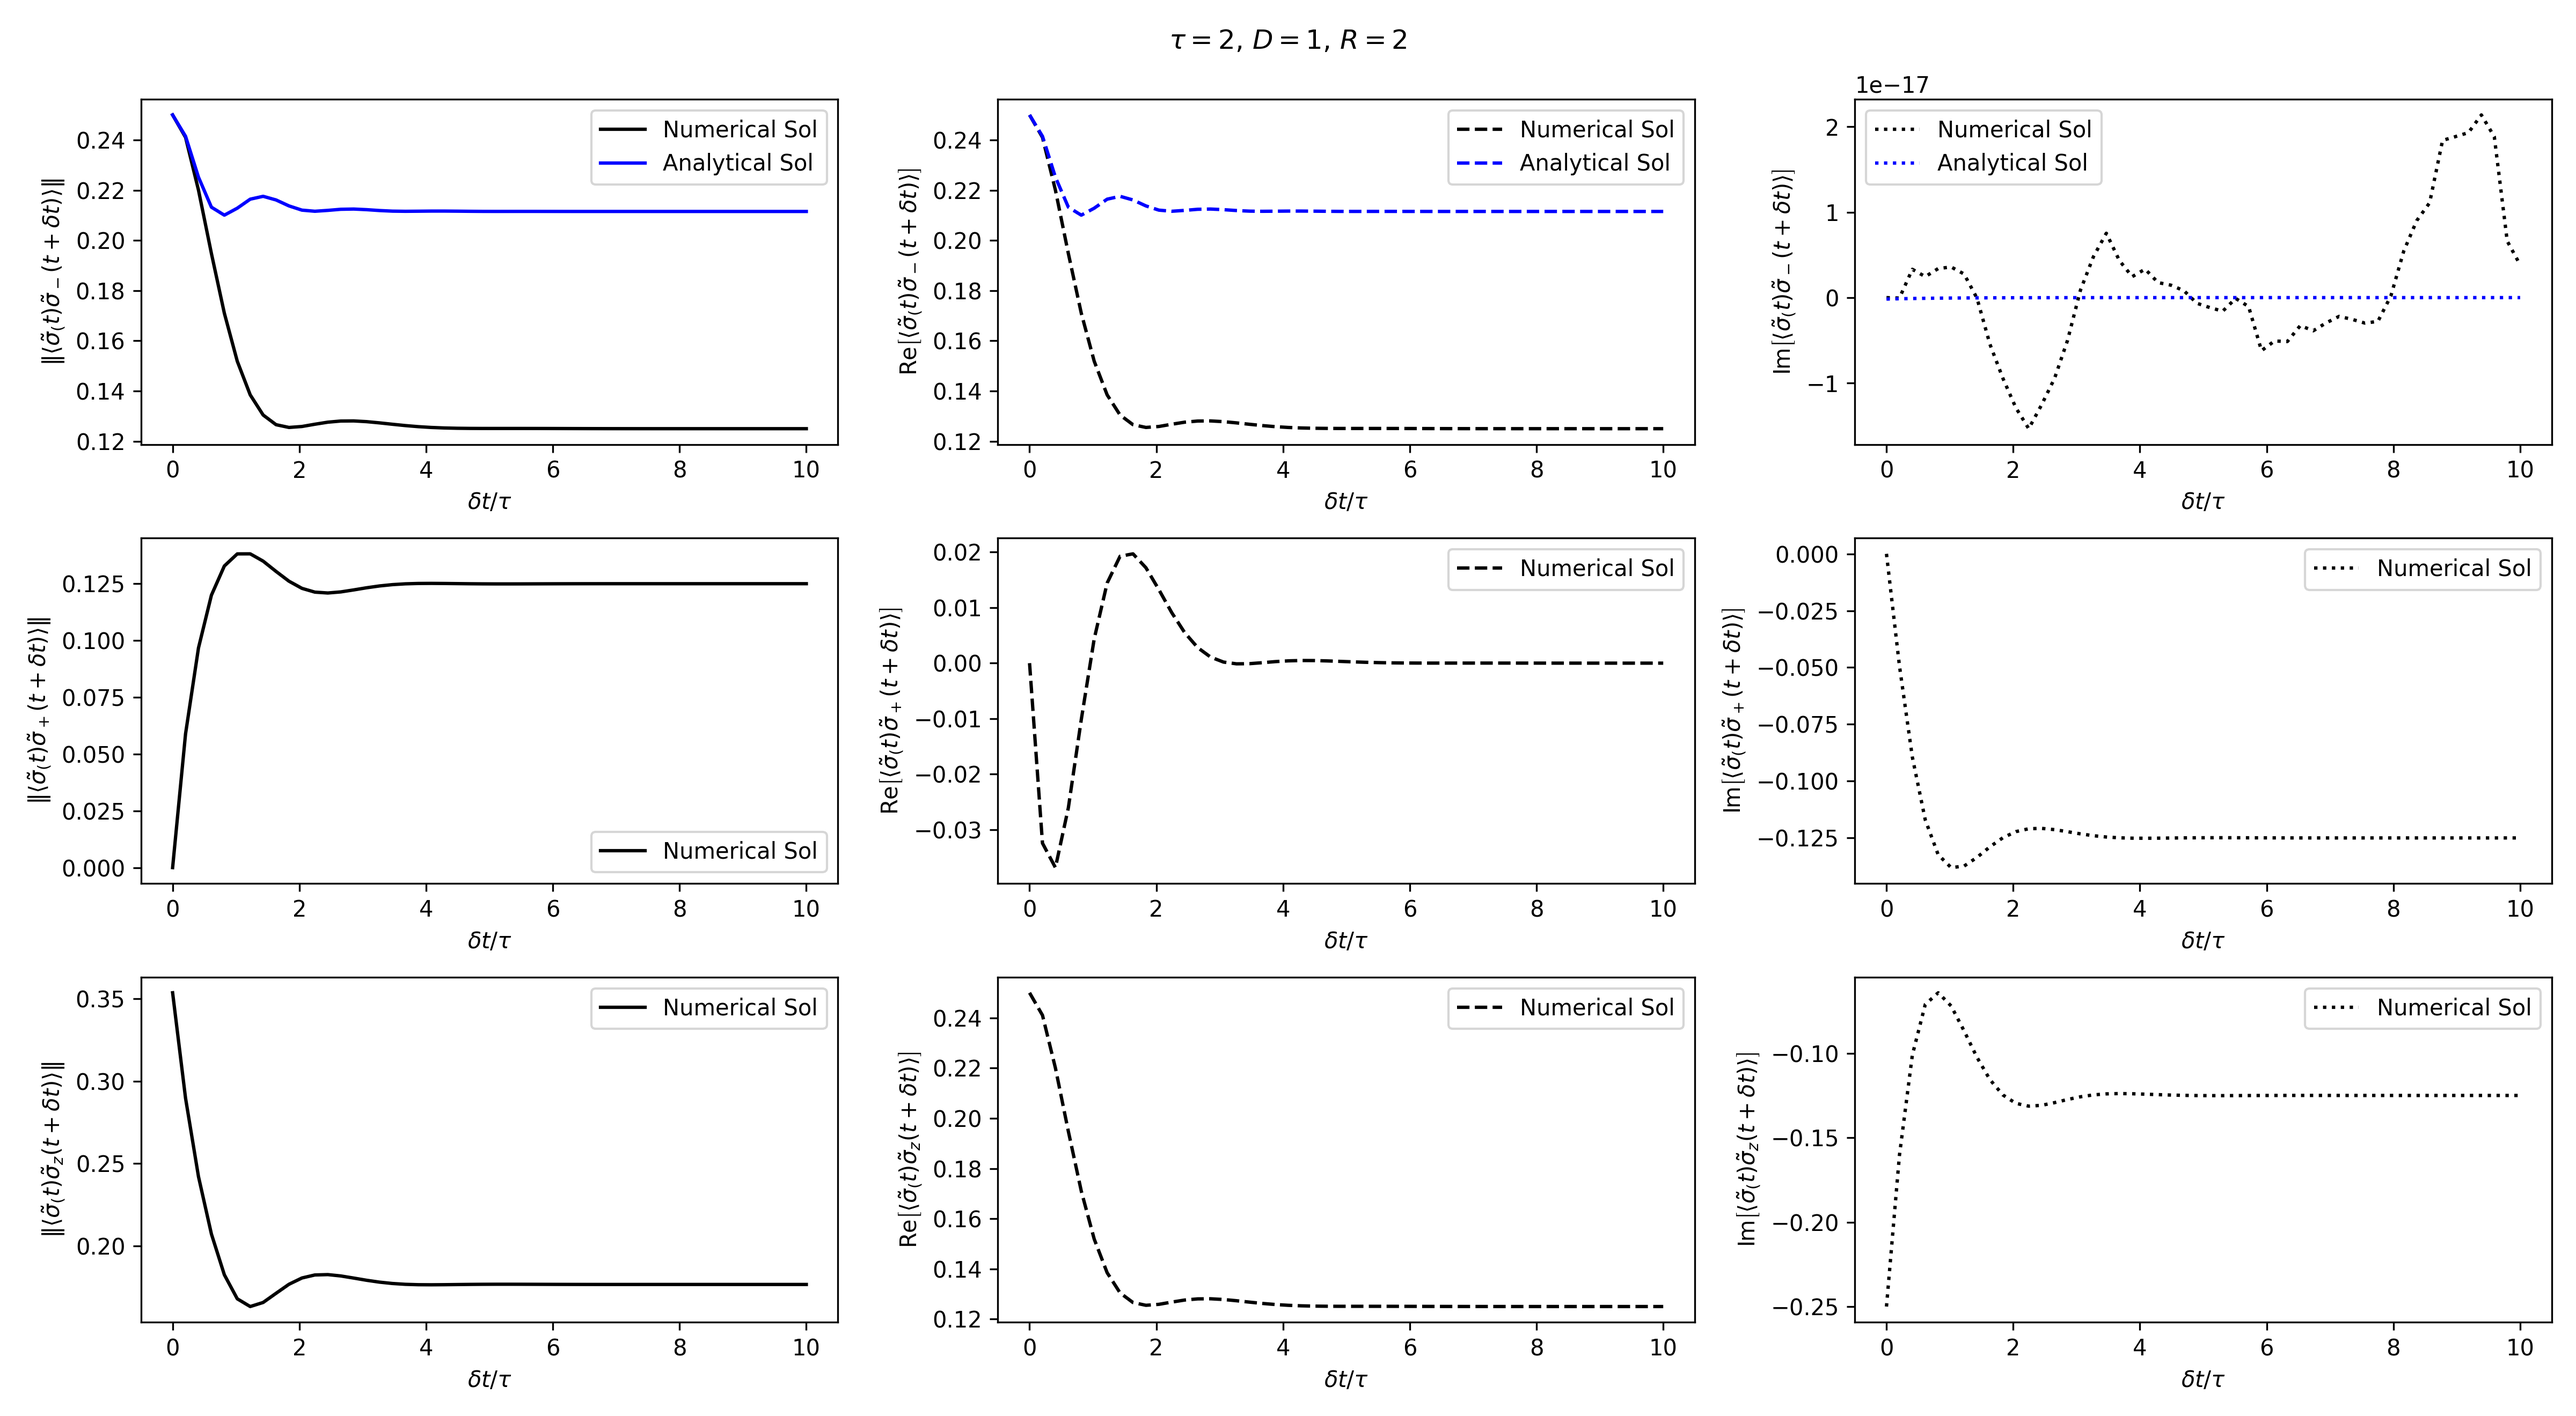
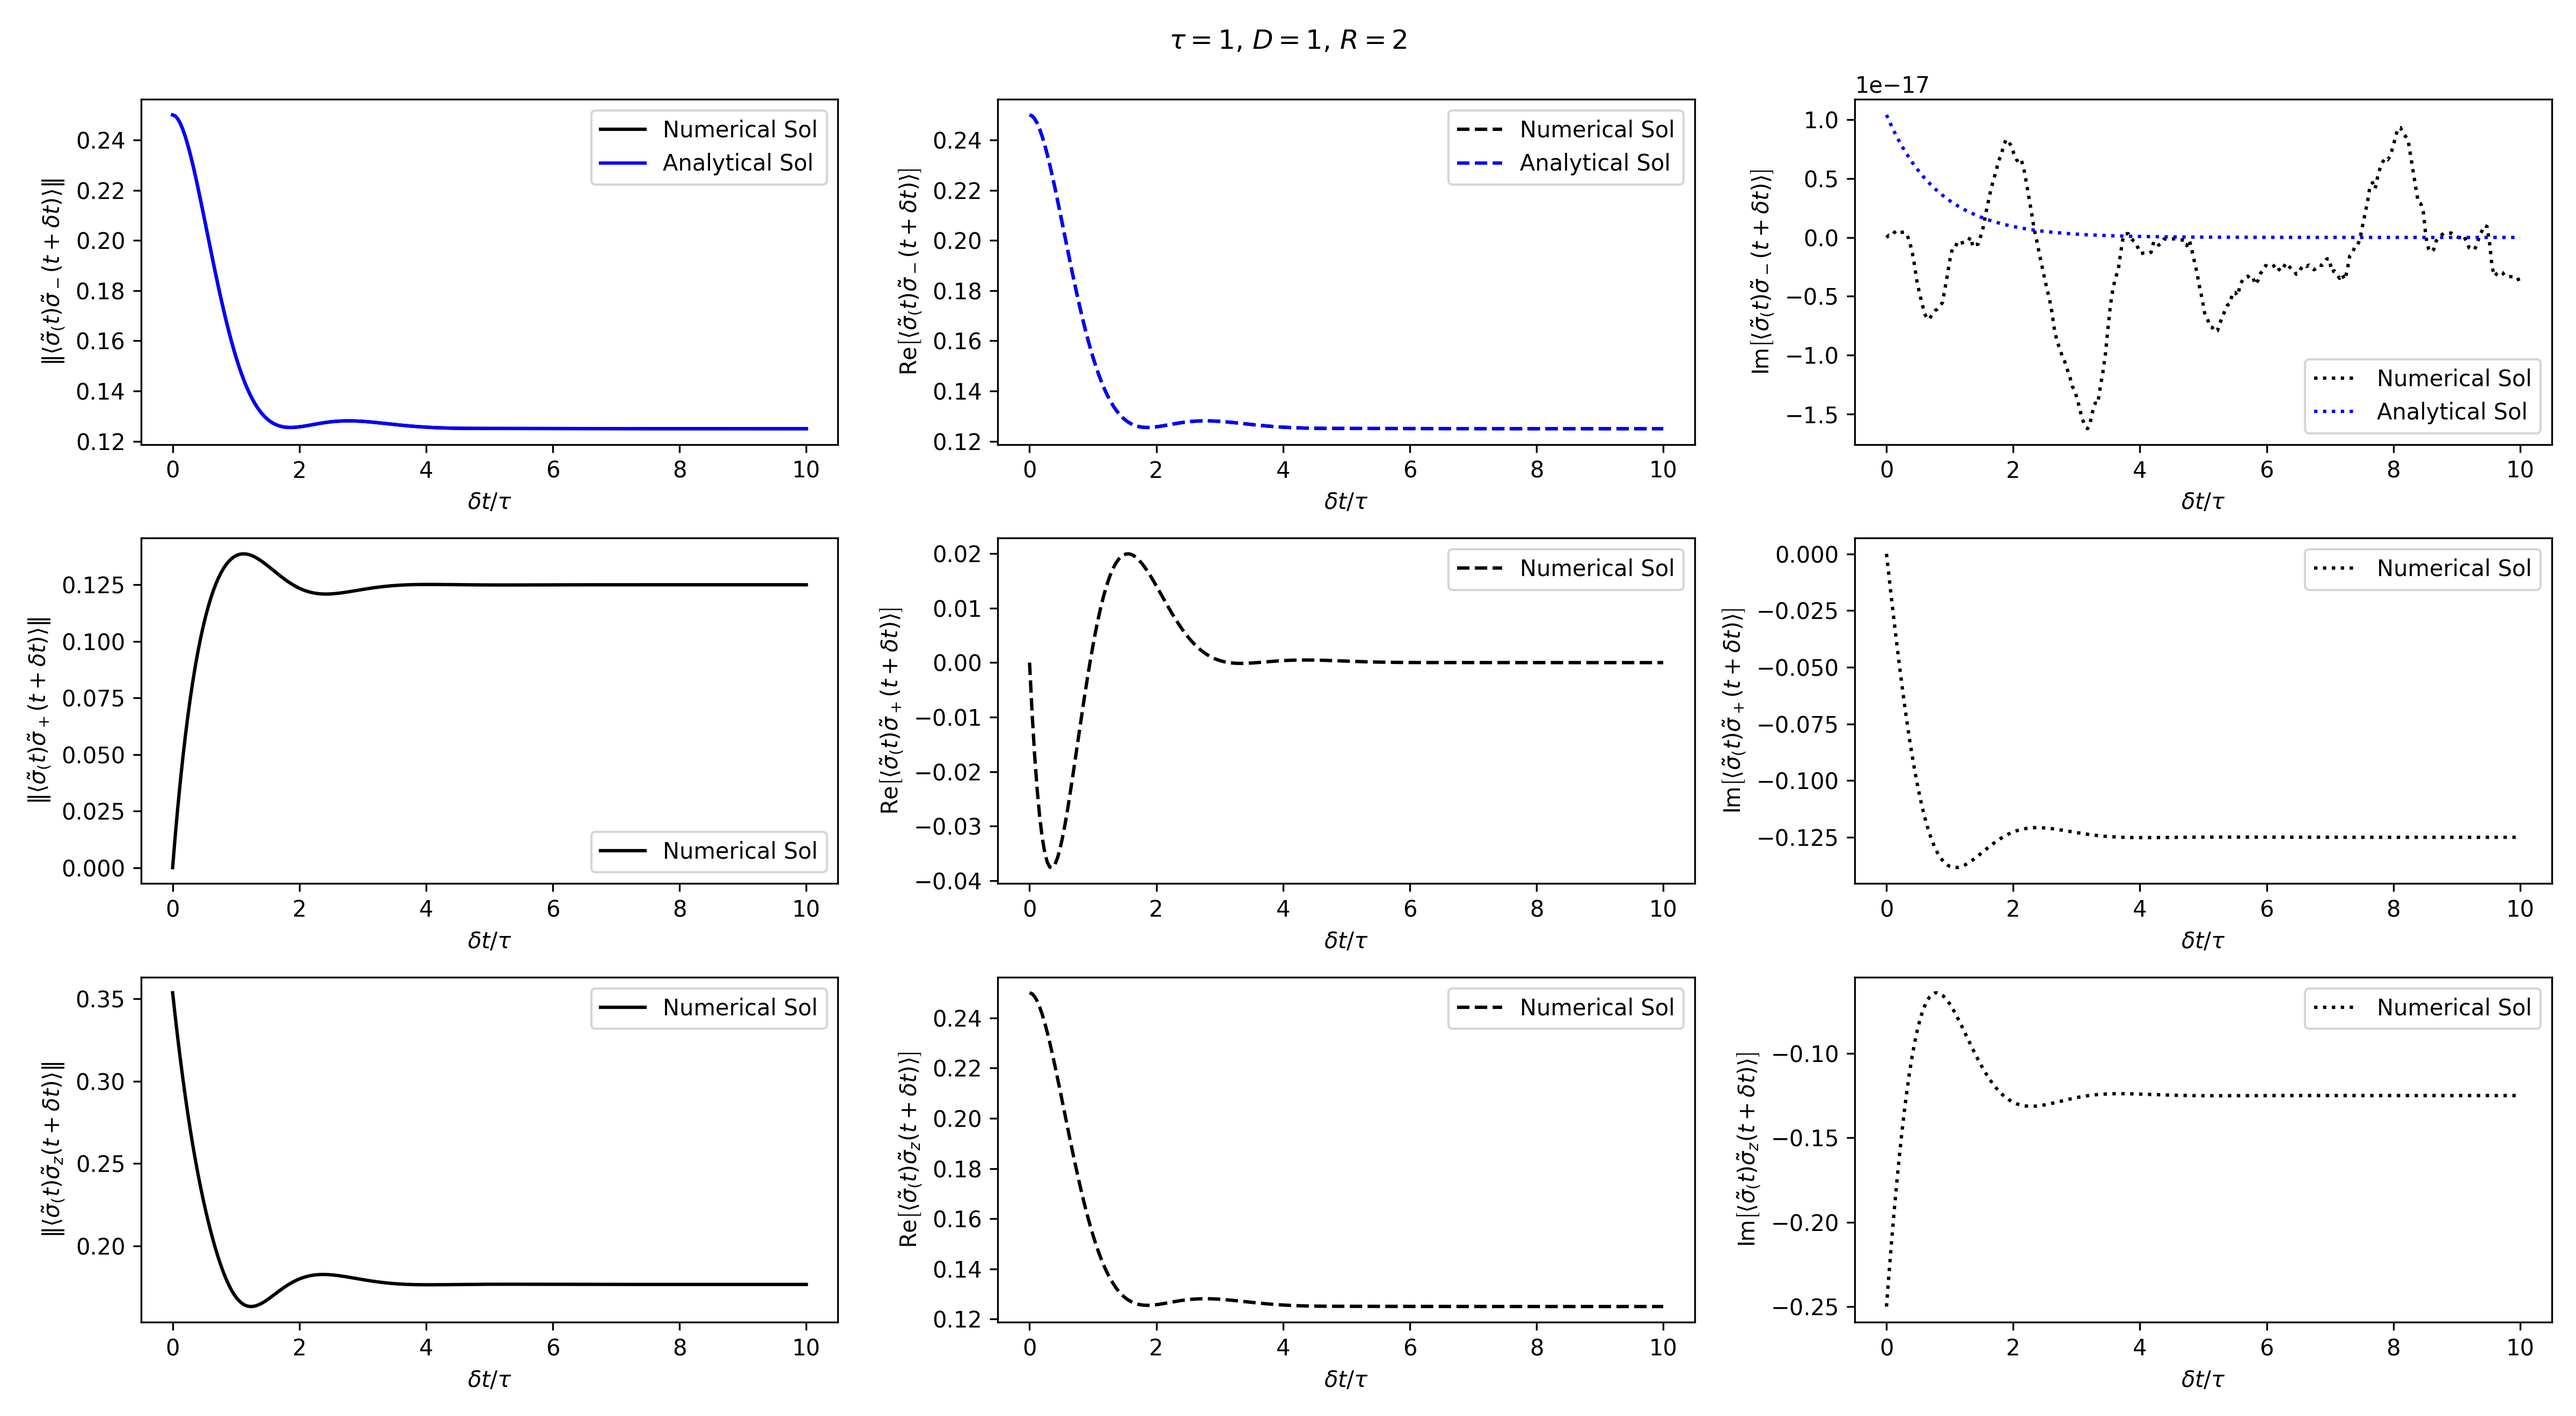
Did a simulation with 250 time points. This matters now because using sympy module instead of numpy makes this way slower honestly.

diff --git a/integrate.py b/integrate.py
@@ -3,7 +3,7 @@ import scipy.integrate as integrate
 import matplotlib.pyplot as plt
 import sympy
 
-tau = 2             # Characteristic decay scale.
+tau = 1             # Characteristic decay scale.
 detuningFreq = 1    # Normalised detuning frequency, described in Appendix B. Denoted D in the paper.
 rabiFreq = 2        # Normalised rabi frequency, described in appendix B. Denoted R in the paper.
 
@@ -87,7 +87,7 @@ for n in np.arange(2):
 
     # The points within the range (0, timeLimit) we will evaluate the numerical solution at.
     tDomain = np.array([1e-6, 10])
-    tAxis = np.linspace(tDomain[0], tDomain[1], 50)
+    tAxis = np.linspace(tDomain[0], tDomain[1], 250)
 
     # Numerically solves the ODE.
     numericalSol = integrate.solve_ivp(fun=TimeIndependentBlochEquations,
